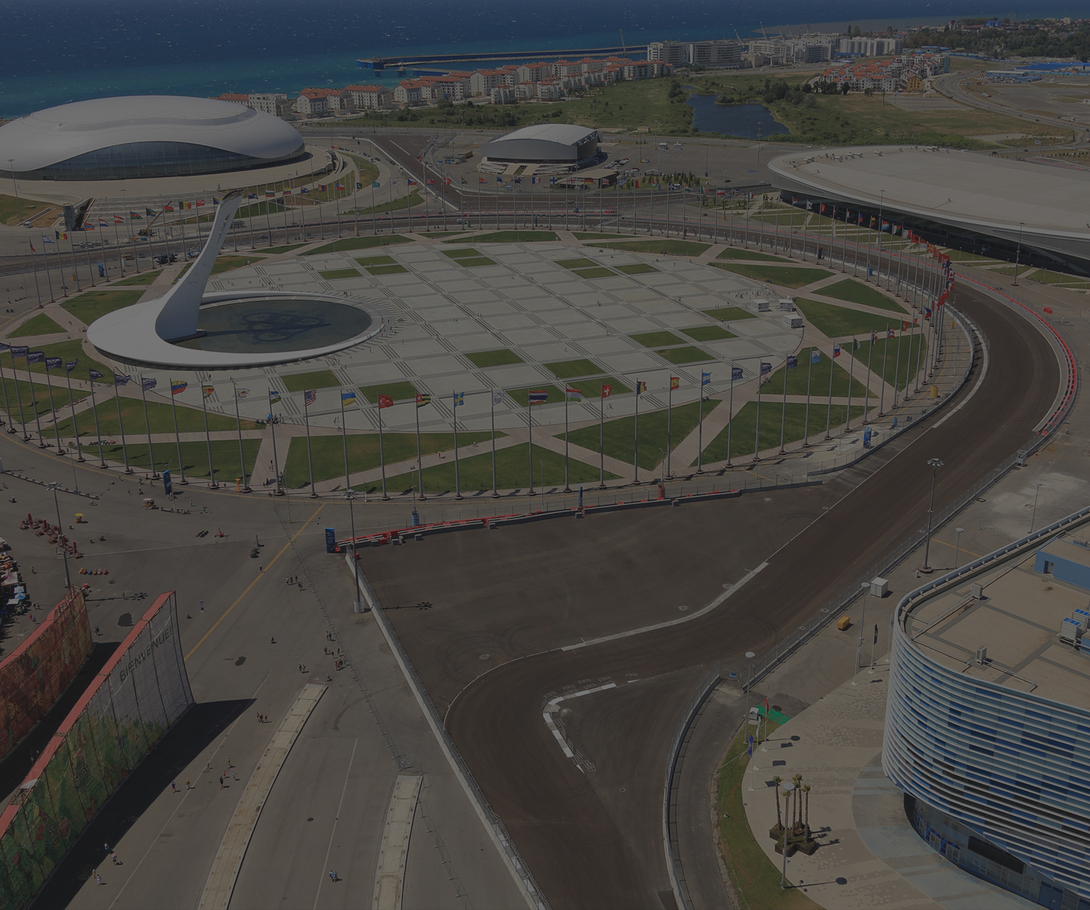
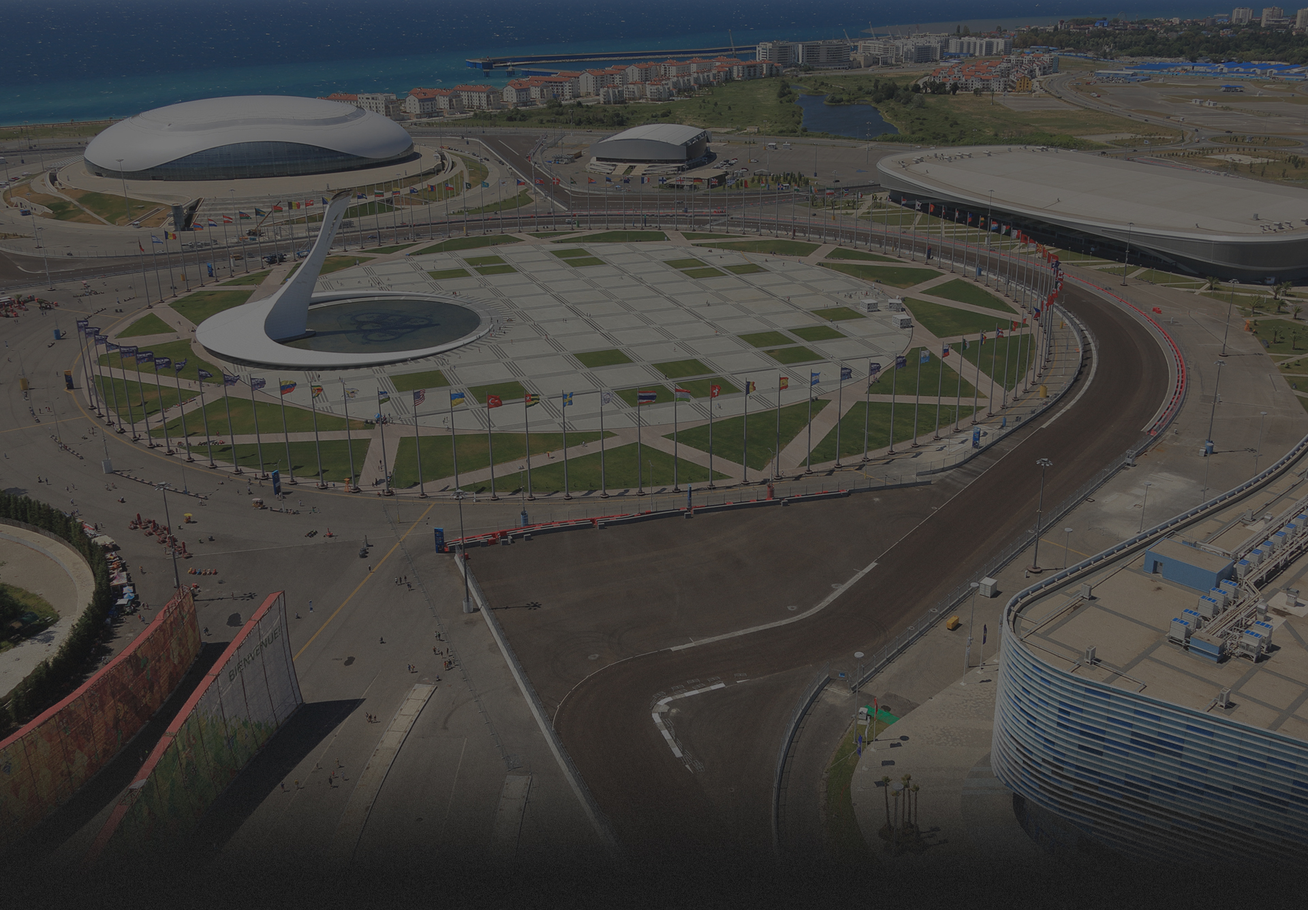
Backgrounds

diff --git a/css/desktop.css b/css/desktop.css
@@ -177,7 +177,7 @@ button::-moz-focus-inner {
 
 .l-content {
 
-	background: #1b1b1b;
+	background: #1b1b1b url(../i/bg.jpg) repeat;
 	color: #fff;
 	position: relative;
 }
@@ -198,23 +198,6 @@ button::-moz-focus-inner {
 		height: 1336px;
 		background-image: url(../i/main-background.jpg);
 		background-color: #1b1b1b;
-	}
-	.p-main .l-content .l-content-background:after {
-
-		content: "";
-		display: block;
-		position: absolute;
-		left: 0;
-		right: 0;
-		bottom: 0;
-		height: 300px;
-		background: -moz-linear-gradient(top, transparent 0%, #1b1b1b 100%);
-		background: -webkit-gradient(linear, left top, left bottom, color-stop(0%, transparent), color-stop(100%, #111));
-		background: -webkit-linear-gradient(top, transparent 0%, #1b1b1b 100%);
-		background: -o-linear-gradient(top, transparent 0%, #1b1b1b 100%);
-		background: -ms-linear-gradient(top, transparent 0%, #1b1b1b 100%);
-		filter: progid:DXImageTransform.Microsoft.gradient( startColorstr='transparent', endColorstr='#111', GradientType=0 );
-		background: linear-gradient(to bottom, transparent 0%, #1b1b1b 100%);
 	}
 
 	.l-content .l-content-inside {
